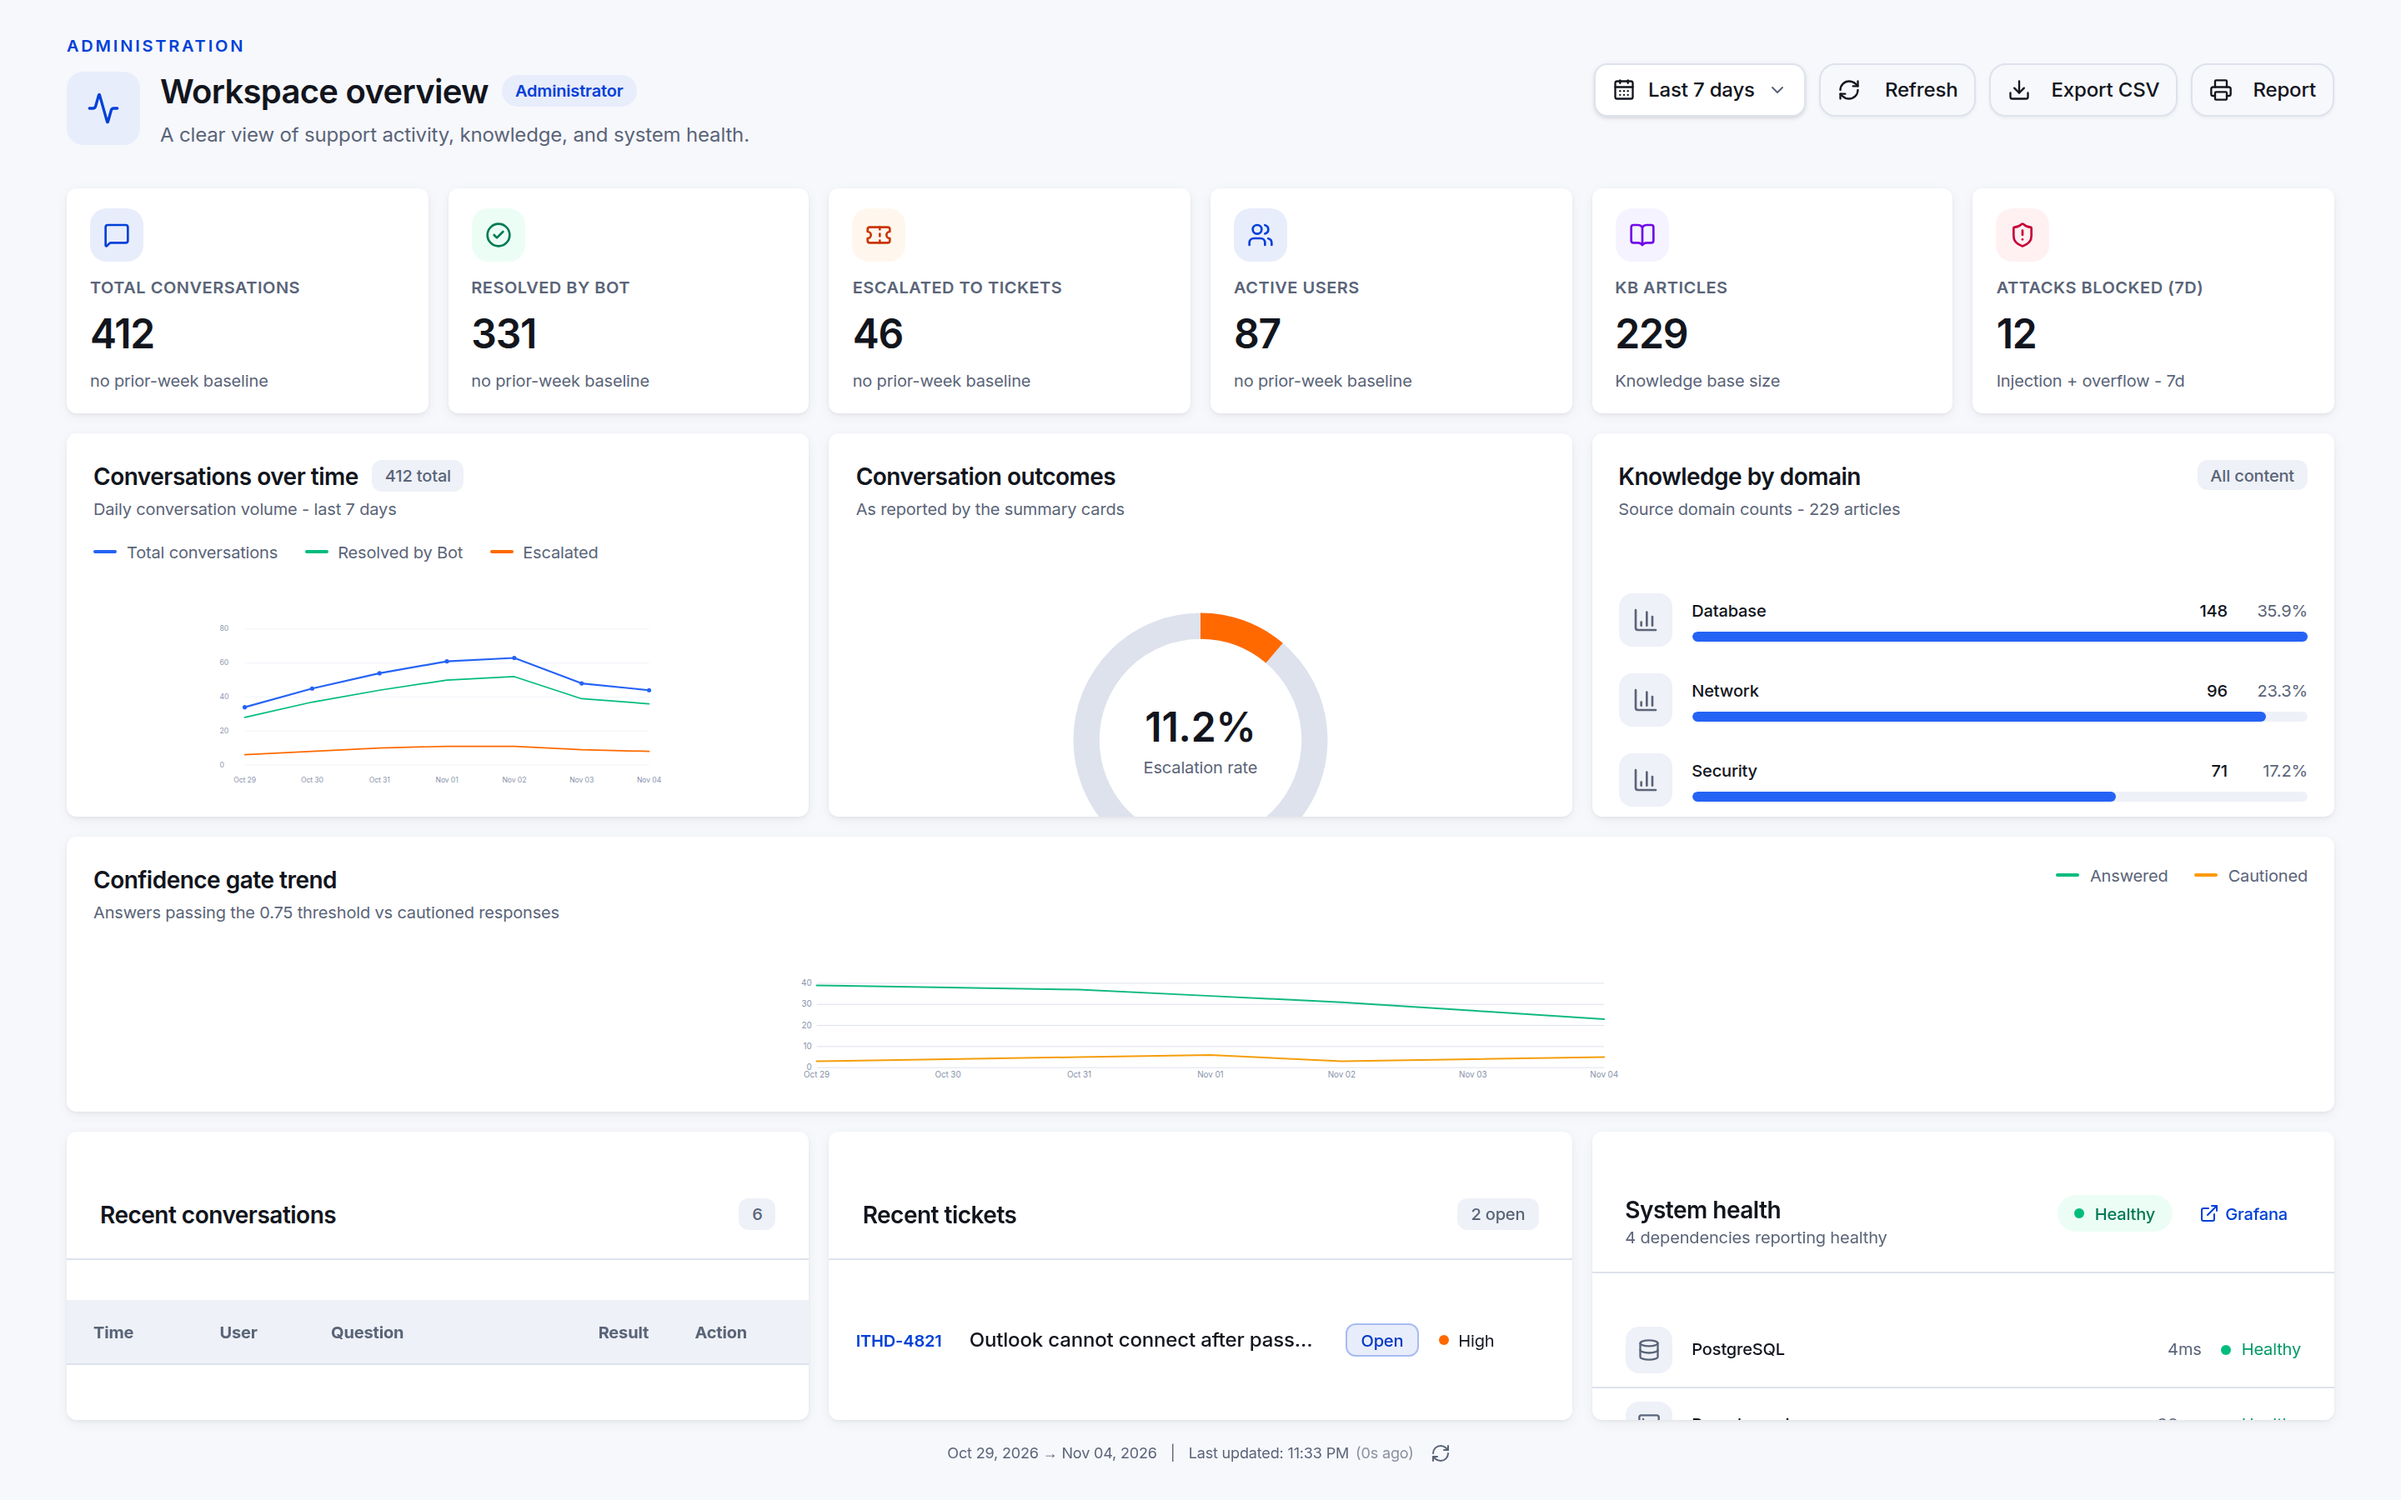
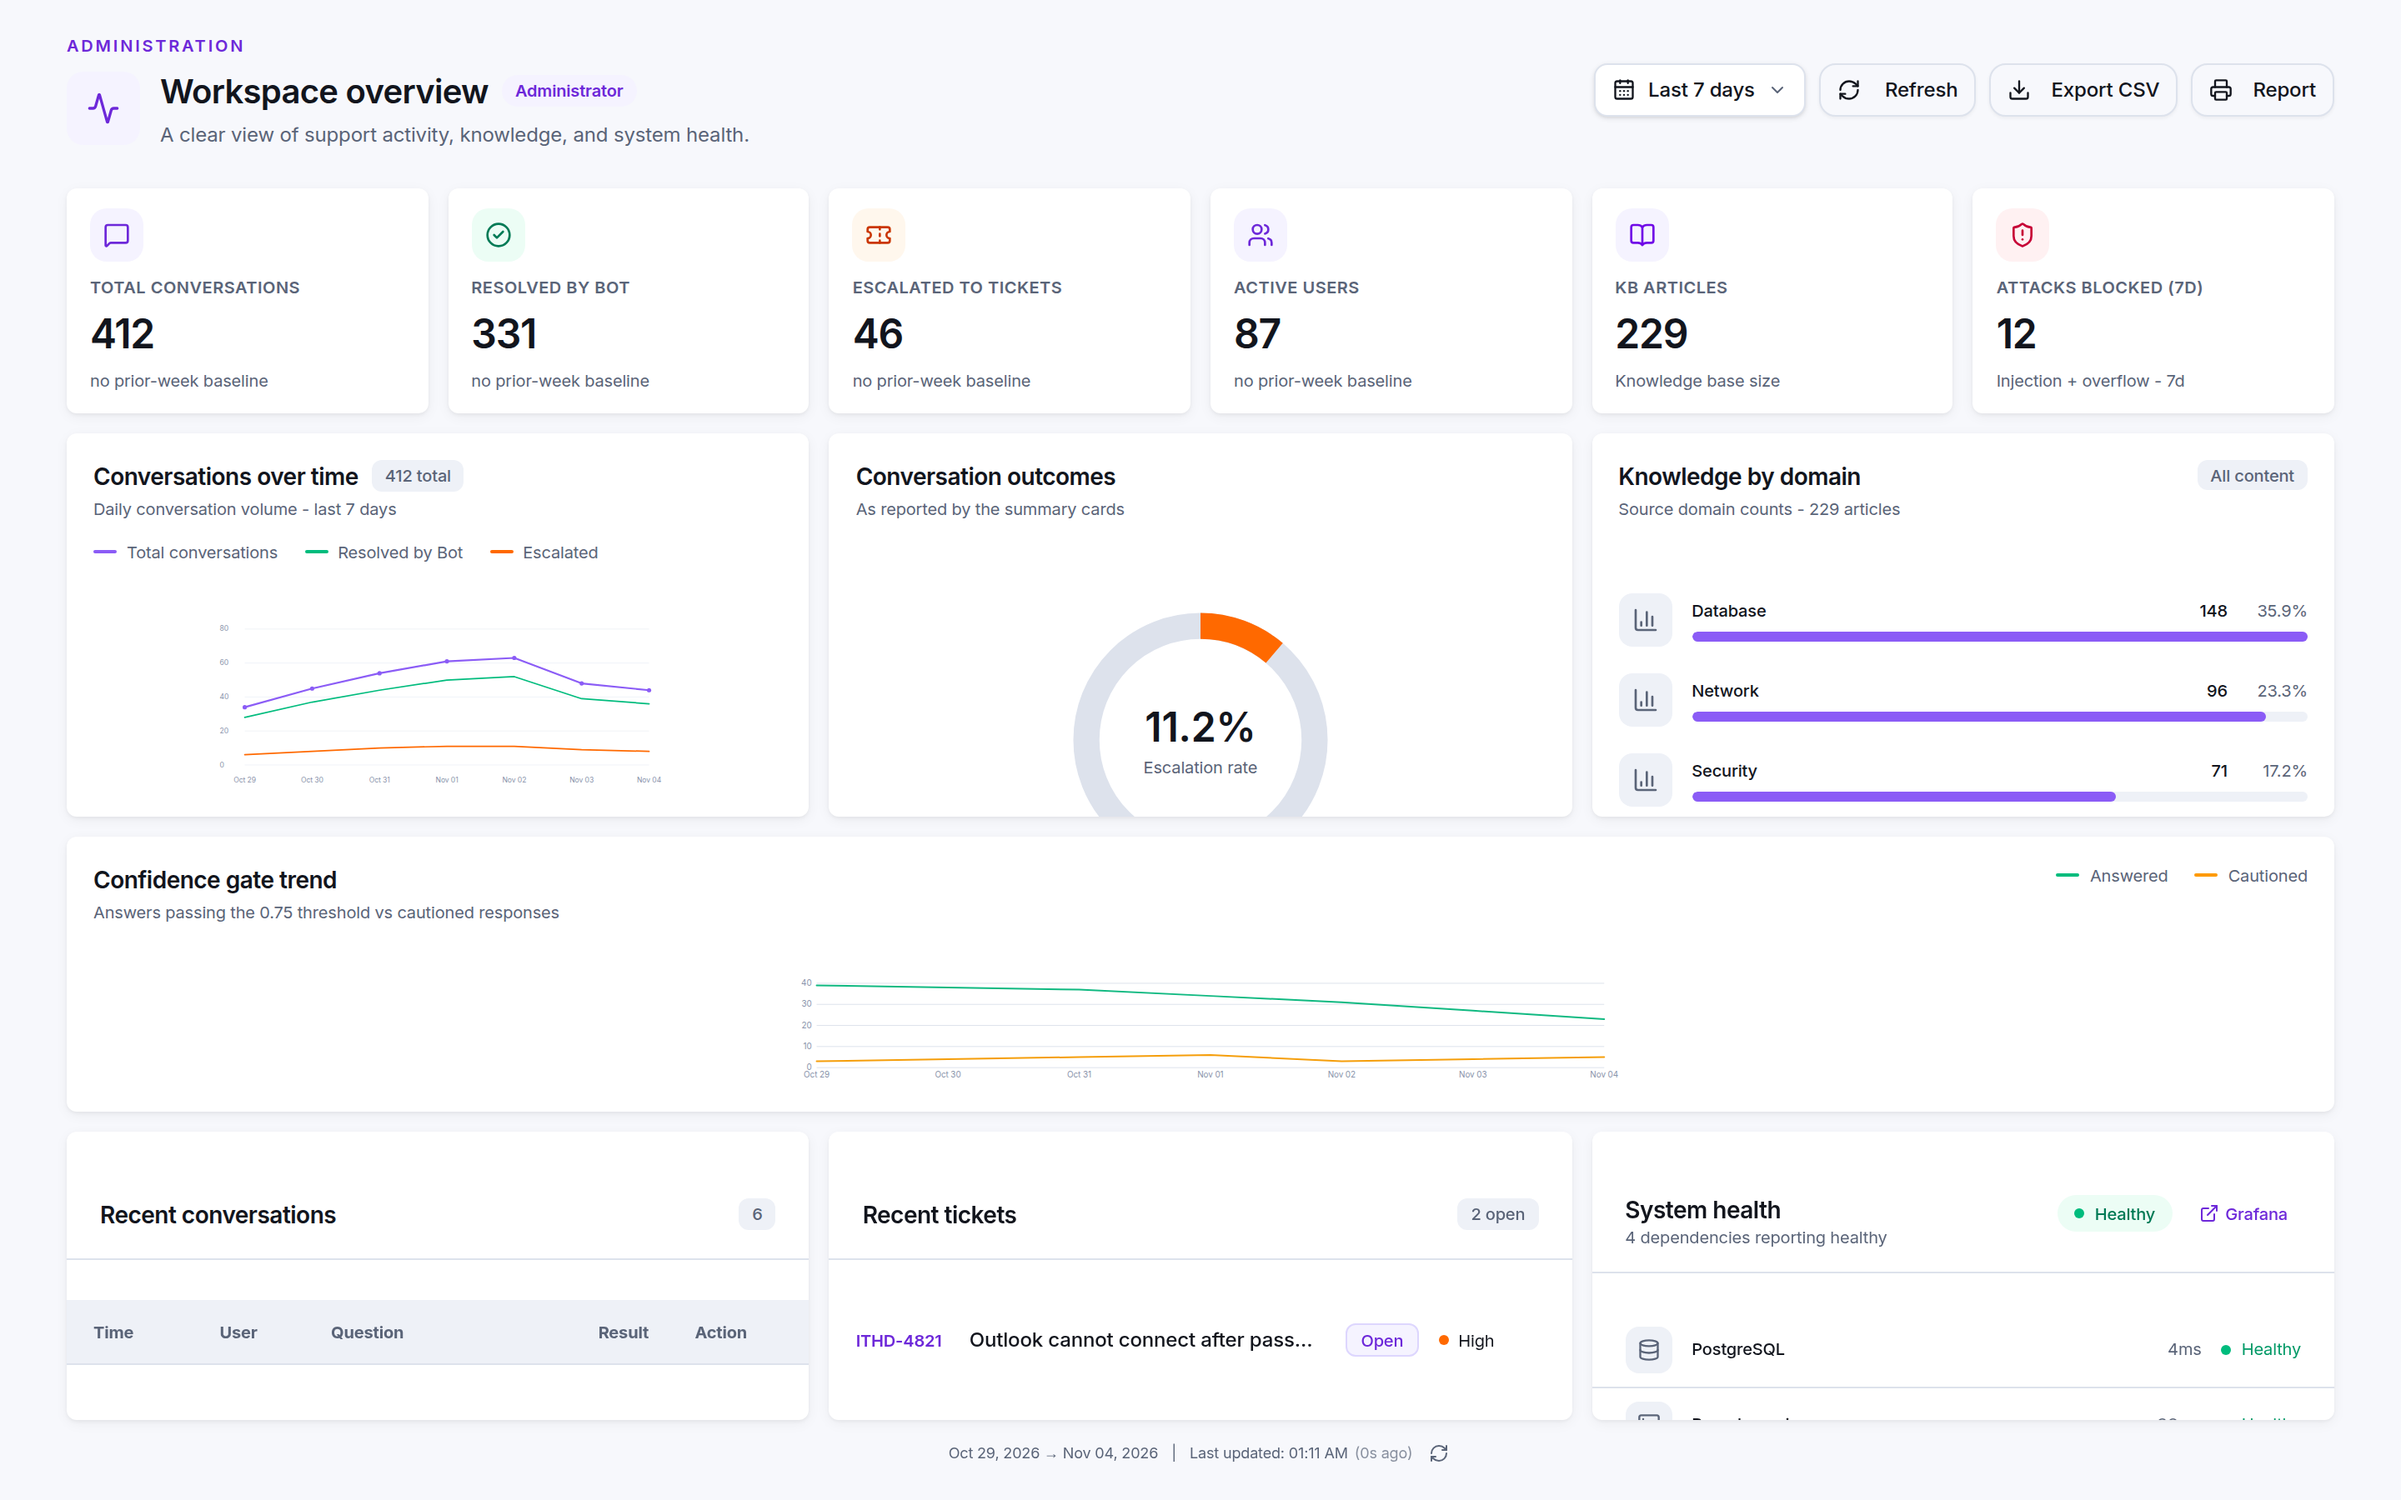
fix(sidebar): restore Chat label and default light theme across workspace

diff --git a/desktop/src/components/PageSidebar.tsx b/desktop/src/components/PageSidebar.tsx
@@ -121,7 +121,7 @@ export default function PageSidebar({
   // v0.21.57 — nav items are capability-aware. Locked items stay visible (so the
   // user knows the feature exists) but clicking one shows WHY access is denied.
   const items: Array<{ id: string; label: string; icon: React.ReactNode; cap?: string; capLabel?: string }> = [
-    { id: "chat", label: "+ New", icon: <MessageSquare className="size-4" />, cap: "chatbot", capLabel: "Ask the AI assistant" },
+    { id: "chat", label: "Chat", icon: <MessageSquare className="size-4" />, cap: "chatbot", capLabel: "Ask the AI assistant" },
     { id: "dashboard", label: "Overview", icon: <Home className="size-4" /> },
     { id: "articles", label: "Knowledge", icon: <BookOpen className="size-4" />, cap: "kb_search", capLabel: "Search the knowledge base" },
     { id: "domains", label: "Domains & Routing", icon: <Layers className="size-4" />, cap: "manage_domains", capLabel: "Manage classification domains & Jira routing" },
@@ -212,15 +212,20 @@ export default function PageSidebar({
               window.dispatchEvent(new CustomEvent("ith:new-chat"));
               setMobileOpen(false);
             }}
-            className="flex w-full items-center justify-center gap-2 rounded-xl bg-white px-3 py-2 text-xs font-semibold text-violet-700 shadow-sm transition hover:bg-violet-50"
+            className="flex w-full items-center justify-center gap-2 rounded-xl bg-white px-3 py-2.5 text-xs font-semibold text-violet-700 shadow-sm transition hover:bg-violet-50"
           >
             <Plus className="size-3.5" />
-            New Chat
+            New conversation
           </button>
         </div>
       )}
 
-      <nav className={"flex-1 py-4 " + (collapsed ? "px-2" : "px-3")}>
+      <nav className={"flex-1 py-3 " + (collapsed ? "px-2" : "px-3")}>
+        {!collapsed && (
+          <p className="mb-2 px-3 text-[10px] font-bold uppercase tracking-[0.16em] text-white/55">
+            Workspace
+          </p>
+        )}
         {items.map((item) => {
           const locked = item.cap ? perms && perms[item.cap] === false : false;
           return (

diff --git a/desktop/src/app/theme.ts b/desktop/src/app/theme.ts
@@ -6,7 +6,7 @@
 export function applyStoredTheme(): void {
   // Initial default before server preferences load
   const current = document.documentElement.getAttribute("data-theme");
-  if (!current) {
+  if (!current || current === "undefined") {
     document.documentElement.setAttribute("data-theme", "light");
   }
 }
@@ -16,19 +16,19 @@ export function applyStoredTheme(): void {
  */
 export function applyUserPrefs(s: any): void {
   const root = document.documentElement;
-  let theme: string | undefined = s?.theme;
+  let theme: string;
   // If theme is explicit ("dark" | "light"), trust theme over legacy darkMode
-  if (s?.theme === "dark" || s?.theme === "light") {
-    theme = s.theme;
+  if (s?.theme === "dark") {
+    theme = "dark";
+  } else if (s?.theme === "light") {
+    theme = "light";
   } else if (typeof s?.darkMode === "boolean") {
     theme = s.darkMode ? "dark" : "light";
+  } else {
+    // Default to the reference light design
+    theme = "light";
   }
 
-  if (!theme || theme === "undefined" || theme === "system") {
-    // Check system preference if system or undefined
-    const prefersDark = typeof window !== "undefined" && window.matchMedia && window.matchMedia("(prefers-color-scheme: dark)").matches;
-    theme = prefersDark ? "dark" : "light";
-  }
   root.setAttribute("data-theme", theme);
   const compact = typeof s?.compact === "boolean" ? s.compact : s?.density === "compact";
   root.dataset.compact = compact ? "1" : "0";
